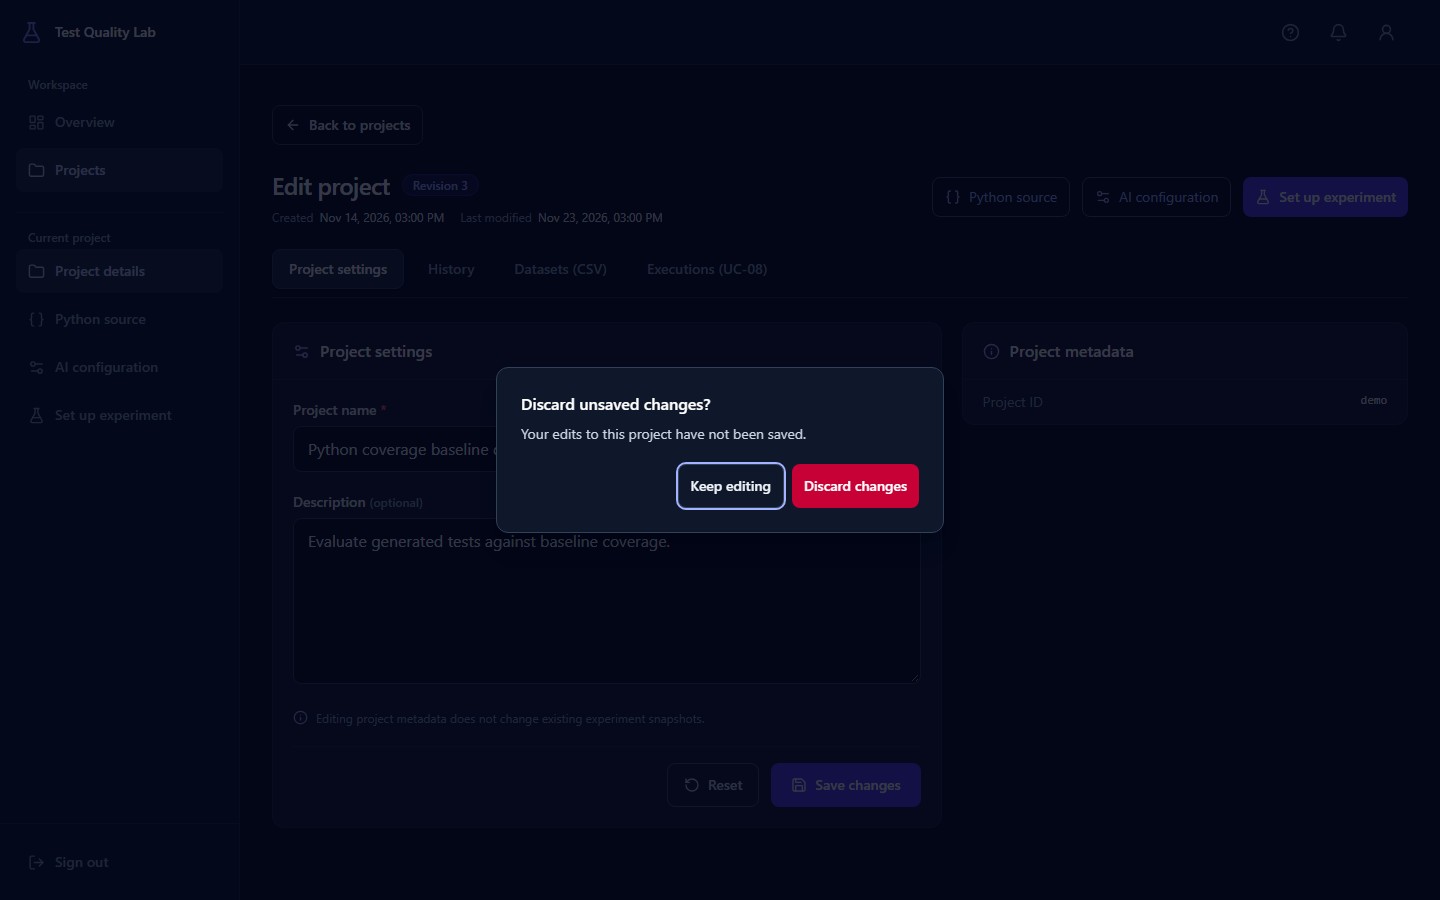
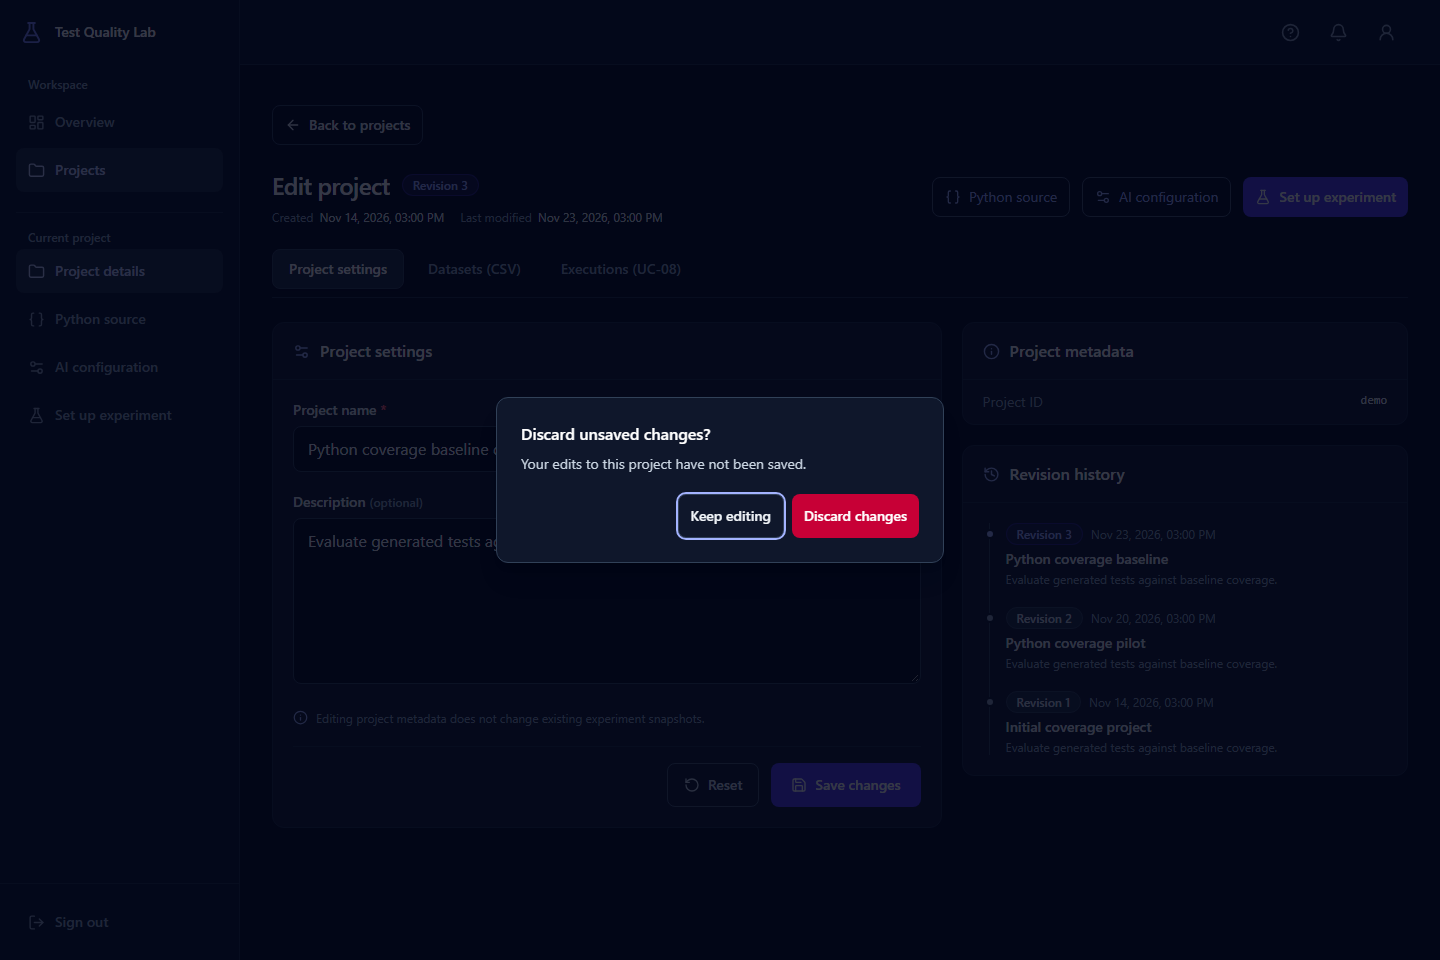
fix(projects): keep revision history in project settings

diff --git a/frontend/tests/projects/ProjectEditorPage.test.jsx b/frontend/tests/projects/ProjectEditorPage.test.jsx
@@ -130,15 +130,13 @@ describe('ProjectEditorPage', () => {
 
     expect(container.textContent).toContain('Revision 2')
     expect(container.textContent).toContain('Editing project metadata does not change existing experiment snapshots.')
-    const historyTab = [...container.querySelectorAll('button')].find((button) => button.textContent === 'History')
-    await act(async () => historyTab.click())
-    expect(historyTab.getAttribute('aria-pressed')).toBe('true')
     expect(container.textContent).toContain('Revision history')
     expect(container.textContent).toContain('LLM Evaluator (Draft)')
+    expect([...container.querySelectorAll('button')].some((button) => button.textContent === 'History')).toBe(false)
   })
 
   it('keeps edits on dismissal and discards only after confirming a tab switch', async () => {
-    fetchMock.mockImplementation(async (url) => Response.json(url.endsWith('/history') ? mockHistory : mockProject))
+    fetchMock.mockImplementation(async (url) => Response.json(url.endsWith('/history') ? mockHistory : url.endsWith('/datasets') ? [] : mockProject))
     await renderEditor()
     await vi.waitFor(() => expect(container.querySelector('#edit-project-name')?.value).toBe(mockProject.name))
     const name = container.querySelector('#edit-project-name')
@@ -146,15 +144,15 @@ describe('ProjectEditorPage', () => {
     await act(async () => setInputValue(name, 'Unsaved name'))
     const unload = new Event('beforeunload', { cancelable: true })
     expect(window.dispatchEvent(unload)).toBe(false)
-    await act(async () => button('History').click())
+    await act(async () => button('Datasets (CSV)').click())
     expect(container.querySelector('dialog').open).toBe(true)
     expect(document.activeElement).toBe(button('Keep editing'))
     await act(async () => button('Keep editing').click())
     expect(name.value).toBe('Unsaved name')
-    await act(async () => button('History').click())
+    await act(async () => button('Datasets (CSV)').click())
     await act(async () => button('Discard changes').click())
     expect(container.querySelector('dialog')).toBeNull()
-    expect(container.textContent).toContain('Revision history')
+    expect(button('Datasets (CSV)').getAttribute('aria-pressed')).toBe('true')
     await act(async () => button('Project settings').click())
     expect(container.querySelector('#edit-project-name').value).toBe(mockProject.name)
     expect(window.dispatchEvent(new Event('beforeunload', { cancelable: true }))).toBe(true)

diff --git a/frontend/src/features/projects/ProjectEditorPage.jsx b/frontend/src/features/projects/ProjectEditorPage.jsx
@@ -18,7 +18,6 @@ import { formatDate } from '../../lib/format-date'
 
 const projectTabs = [
   ['settings', 'Project settings'],
-  ['history', 'History'],
   ['datasets', 'Datasets (CSV)'],
   ['executions', 'Executions (UC-08)'],
 ]
@@ -360,18 +359,6 @@ export function ProjectEditorPage({ session, onExpire, mode = 'edit' }) {
         </div>
       )}
 
-      {mode === 'edit' && activeTab === 'history' && (
-        <section aria-labelledby="revision-history-title" className="rounded-xl border border-slate-800 bg-slate-900">
-          <h2 id="revision-history-title" className="flex items-center gap-2.5 border-b border-slate-800 px-4 py-4 text-base font-semibold text-white sm:px-5">
-            <History size={17} aria-hidden="true" className="text-indigo-300" /> Revision history
-          </h2>
-          <div className="p-4 sm:p-5">
-            <ProjectHistoryList history={historyQuery.data} isLoading={historyQuery.isPending}
-              isError={historyQuery.isError} onRetry={() => { void historyQuery.refetch() }} />
-          </div>
-        </section>
-      )}
-
       {/* Tab: Executions & Sandbox Status */}
       {mode === 'edit' && activeTab === 'executions' && (
         <ExecutionsManager
@@ -524,6 +511,20 @@ export function ProjectEditorPage({ session, onExpire, mode = 'edit' }) {
                     </div>
                   )}
                 </dl>
+              </section>
+
+              <section aria-labelledby="revision-history-title" className="rounded-xl border border-slate-800 bg-slate-900">
+                <h2 id="revision-history-title" className="flex items-center gap-2.5 border-b border-slate-800 px-4 py-4 text-base font-semibold text-white sm:px-5">
+                  <History size={17} aria-hidden="true" className="text-indigo-300" /> Revision history
+                </h2>
+                <div className="p-4 sm:p-5">
+                  <ProjectHistoryList
+                    history={historyQuery.data}
+                    isLoading={historyQuery.isPending}
+                    isError={historyQuery.isError}
+                    onRetry={() => { void historyQuery.refetch() }}
+                  />
+                </div>
               </section>
 
             </div>

diff --git a/docs/requirements/traceability.md b/docs/requirements/traceability.md
@@ -2,7 +2,7 @@
 
 | Requirement group | Module | Status |
 |---|---|---|
-| Project details UI (FR-PRJ-002, UC-03) | frontend/src/features/projects | #90 adds a History tab for the existing revision list and discard confirmation for unsaved edits when switching tabs or following in-app links. Reload and close use the browser warning. |
+| Project details UI (FR-PRJ-002, UC-03) | frontend/src/features/projects | #90 adds discard confirmation for unsaved edits when switching tabs or following in-app links. Reload and close use the browser warning. |
 | Create project dialog (FR-PRJ-001, UC-03) | frontend/src/components/projects/ProjectCreateModal.jsx, frontend/src/features/projects | #89 covers trimmed metadata validation, server field errors, duplicate-submit protection, retry with preserved inputs, keyboard operation, and success navigation with a toast. Frontend coverage in ProjectsDashboard.test.jsx. |
 | Authentication (AUT) | backend/app/modules/auth, frontend/src/features/auth | FR-AUT-003/004 backend session expiry, logout revocation and owner-scoped access verified; UC-01, UC-02 and UC-12 screens; protected projects, logout, and expired-session recovery with frontend tests; see docs/api/contracts/auth.md for registration fields, session endpoints and structured errors |
 | Projects (PRJ) | backend/app/modules/projects, frontend/src/features/projects | FR-PRJ-001/002 and UC-03 implemented: owner-scoped project CRUD and history backend, dashboard and editor screens; FR-PRJ-003 adds URL-backed search, sort and pagination, loading, empty, no-match and retry states (#88). Experiment counts require API support |

diff --git a/frontend/src/features/projects/README.md b/frontend/src/features/projects/README.md
@@ -20,7 +20,7 @@ Project management views and editor screens for Sprint 1 (FR-PRJ-001 / FR-PRJ-00
   - `?edit=description` focuses the description field from the registry.
   - In-place form validation and dirty checking (disables saving when inputs are untouched or invalid).
   - Handles 404 (project not found / unauthorized) gracefully without disclosing private resources.
-  - **History** (`?tab=history`) displays the existing revision history timeline with revision badges and timestamps.
+  - **Project settings** displays the edit form and the existing revision history timeline together.
   - Pending edits prompt for confirmation before switching project tabs or following same-origin navigation links. Reloading or closing the document uses the browser warning.
 - `/projects/new` (`ProjectEditorPage.jsx` in `create` mode):
   - Standalone project creation screen.
